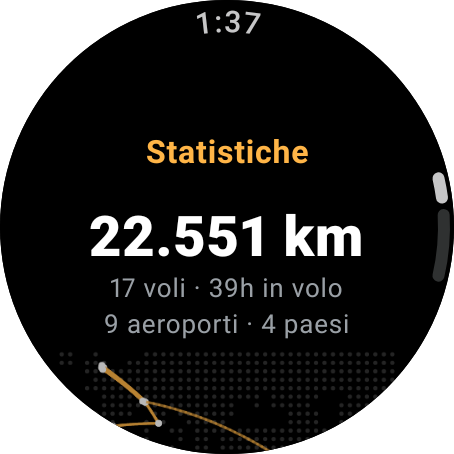
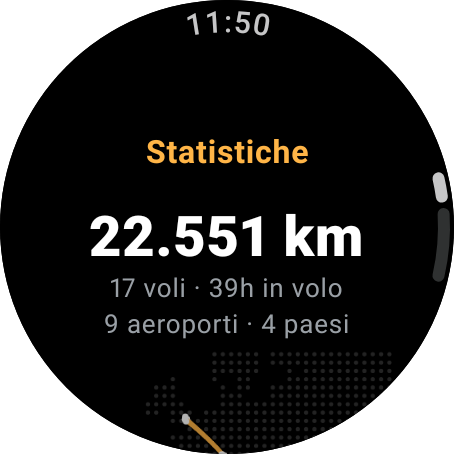
Mappa rotte: selettore Europa / Mondo
- core: riquadro geografico fisso (Bounds.EUROPE) per la mappa multi-rotta
- telefono: chip Europa/Mondo, rotte tagliate al bordo, contatore rotte fuori Europa
- orologio: tocco sulla mappa per passare da Europa a Mondo

Claude-Session: https://claude.ai/code/session_01QZdUxbXicnFAc6JdaxwKK2

diff --git a/kairos/mobile/src/main/java/digital/giacomello/kairos/mobile/ui/StatsScreen.kt b/kairos/mobile/src/main/java/digital/giacomello/kairos/mobile/ui/StatsScreen.kt
@@ -6,6 +6,7 @@ import androidx.compose.foundation.layout.Arrangement
 import androidx.compose.foundation.layout.Box
 import androidx.compose.foundation.layout.Column
 import androidx.compose.foundation.layout.Row
+import androidx.compose.foundation.layout.Spacer
 import androidx.compose.foundation.layout.fillMaxHeight
 import androidx.compose.foundation.layout.fillMaxSize
 import androidx.compose.foundation.layout.fillMaxWidth
@@ -53,8 +54,9 @@ fun StatsScreen(vm: MobileViewModel, onBack: () -> Unit) {
 /** Statistiche di viaggio: km, ore, puntualità e ritardi, classifiche. Filtro per anno. */
 @OptIn(ExperimentalMaterial3Api::class)
 @Composable
-fun StatsContent(flights: List<Flight>, onBack: () -> Unit, initialYear: Int? = null) {
+fun StatsContent(flights: List<Flight>, onBack: () -> Unit, initialYear: Int? = null, initialWorld: Boolean = false) {
     var year by remember { mutableStateOf(initialYear) }
+    var world by remember { mutableStateOf(initialWorld) }
     val years = remember(flights) { TravelStats.years(flights) }
     val s = remember(flights, year) { TravelStats.from(flights, year) }
 
@@ -101,12 +103,26 @@ fun StatsContent(flights: List<Flight>, onBack: () -> Unit, initialYear: Int? = 
                 Card(Modifier.fillMaxWidth(), shape = RoundedCornerShape(20.dp),
                     colors = CardDefaults.cardColors(containerColor = MaterialTheme.colorScheme.surfaceContainer)) {
                     Column {
-                        Row(Modifier.fillMaxWidth().padding(start = 16.dp, end = 16.dp, top = 14.dp), verticalAlignment = Alignment.CenterVertically) {
-                            Text("LE TUE ROTTE", style = MaterialTheme.typography.labelMedium, color = MaterialTheme.colorScheme.onSurfaceVariant, modifier = Modifier.weight(1f))
-                            Text("${flown.map { listOf(it.departure.iata, it.arrival.iata).sorted() }.toSet().size} rotte",
-                                style = MaterialTheme.typography.labelMedium, color = MaterialTheme.colorScheme.primary)
+                        val routeKeys = flown.map { listOf(it.departure.iata, it.arrival.iata).sorted() }.toSet()
+                        // Rotte con almeno uno scalo fuori dal riquadro Europa
+                        val outside = remember(flown) {
+                            flown.filter { f -> digital.giacomello.kairos.geo.LandMask.coords(f)?.let { (a, b) ->
+                                !digital.giacomello.kairos.geo.Bounds.EUROPE.contains(a) || !digital.giacomello.kairos.geo.Bounds.EUROPE.contains(b) } == true }
+                                .map { listOf(it.departure.iata, it.arrival.iata).sorted() }.toSet().size
                         }
-                        AllRoutesMap(flown, MaterialTheme.colorScheme.primary, Modifier.fillMaxWidth().height(260.dp).padding(8.dp))
+                        Row(Modifier.fillMaxWidth().padding(start = 16.dp, end = 12.dp, top = 12.dp), verticalAlignment = Alignment.CenterVertically) {
+                            Column(Modifier.weight(1f)) {
+                                Text("LE TUE ROTTE", style = MaterialTheme.typography.labelMedium, color = MaterialTheme.colorScheme.onSurfaceVariant)
+                                Text(
+                                    "${routeKeys.size} rotte" + if (!world && outside > 0) " · $outside fuori Europa" else "",
+                                    style = MaterialTheme.typography.labelMedium, color = MaterialTheme.colorScheme.primary,
+                                )
+                            }
+                            FilterChip(selected = !world, onClick = { world = false }, label = { Text("Europa") })
+                            Spacer(Modifier.width(6.dp))
+                            FilterChip(selected = world, onClick = { world = true }, label = { Text("Mondo") })
+                        }
+                        AllRoutesMap(flown, MaterialTheme.colorScheme.primary, Modifier.fillMaxWidth().height(260.dp).padding(8.dp), europe = !world)
                     }
                 }
             }

diff --git a/kairos/core/src/main/java/digital/giacomello/kairos/geo/RouteMap.kt b/kairos/core/src/main/java/digital/giacomello/kairos/geo/RouteMap.kt
@@ -36,7 +36,20 @@ data class RouteFrame(
 }
 
 /** Mappa con più rotte: terre a puntini e un percorso per rotta. */
-data class MultiFrame(val land: List<P>, val paths: List<List<P>>, val dotStep: Float)
+data class MultiFrame(val land: List<P>, val paths: List<List<P>>, val dotStep: Float) {
+    /** Un punto è visibile se cade dentro il riquadro. */
+    fun visible(p: P) = p.x in 0f..1f && p.y in 0f..1f
+}
+
+/** Riquadro geografico fisso. */
+data class Bounds(val minLat: Double, val maxLat: Double, val minLng: Double, val maxLng: Double) {
+    fun contains(p: LatLng) = p.lat in minLat..maxLat && p.lng in minLng..maxLng
+
+    companion object {
+        /** Europa geografica + Nord Africa mediterraneo, quanto basta per le rotte UE/UK. */
+        val EUROPE = Bounds(33.0, 63.0, -13.0, 33.0)
+    }
+}
 
 /**
  * Maschera terre emerse (Natural Earth 1:50m, pubblico dominio) su griglia di 0,25°,
@@ -97,7 +110,11 @@ class LandMask private constructor(private val bits: ByteArray) {
      * Mappa di più rotte insieme (es. "tutte le mie rotte"): inquadra tutti gli archi.
      * @return terre a puntini + un percorso per rotta, nello stesso ordine di [routes].
      */
-    fun frameMany(routes: List<Pair<LatLng, LatLng>>, aspect: Float, dotsAcross: Int = 80, padding: Double = 0.08): MultiFrame? {
+    fun frameMany(
+        routes: List<Pair<LatLng, LatLng>>, aspect: Float, dotsAcross: Int = 80, padding: Double = 0.08,
+        /** Riquadro fisso (es. Europa); null = inquadra tutte le rotte. */
+        bounds: Bounds? = null,
+    ): MultiFrame? {
         if (routes.isEmpty()) return null
         val arcs = routes.map { (a, b) -> greatCircle(a, b, 48) }
         // Longitudini srotolate per arco, poi allineate al centro del primo arco (gestisce l'antimeridiano)
@@ -111,14 +128,17 @@ class LandMask private constructor(private val bits: ByteArray) {
         val midLat = (allLats.min() + allLats.max()) / 2
         val kx = cos(midLat * PI / 180).coerceAtLeast(0.2)
 
-        var minX = allLngs.min() * kx; var maxX = allLngs.max() * kx
-        var minY = allLats.min(); var maxY = allLats.max()
-        var w = max(maxX - minX, (maxY - minY) * aspect).coerceAtLeast(14.0) * (1 + 2 * padding)
+        val kxB = bounds?.let { cos((it.minLat + it.maxLat) / 2 * PI / 180) }
+        val k = kxB ?: kx
+        var minX = (bounds?.minLng ?: allLngs.min()) * k; var maxX = (bounds?.maxLng ?: allLngs.max()) * k
+        var minY = bounds?.minLat ?: allLats.min(); var maxY = bounds?.maxLat ?: allLats.max()
+        val pad = if (bounds != null) 0.0 else padding
+        var w = max(maxX - minX, (maxY - minY) * aspect).coerceAtLeast(14.0) * (1 + 2 * pad)
         var h = w / aspect
-        if (h < (maxY - minY) * (1 + 2 * padding)) { h = (maxY - minY) * (1 + 2 * padding); w = h * aspect }
+        if (h < (maxY - minY) * (1 + 2 * pad)) { h = (maxY - minY) * (1 + 2 * pad); w = h * aspect }
         val cx = (minX + maxX) / 2; val cy = (minY + maxY) / 2
         minX = cx - w / 2; maxX = cx + w / 2; minY = cy - h / 2; maxY = cy + h / 2
-        fun proj(lat: Double, lng: Double) = P(((lng * kx - minX) / w).toFloat(), ((maxY - lat) / h).toFloat())
+        fun proj(lat: Double, lng: Double) = P(((lng * k - minX) / w).toFloat(), ((maxY - lat) / h).toFloat())
 
         val step = w / dotsAcross
         val land = ArrayList<P>()
@@ -126,7 +146,7 @@ class LandMask private constructor(private val bits: ByteArray) {
         while (y > minY) {
             var x = minX + step / 2
             while (x < maxX) {
-                val lng = x / kx
+                val lng = x / k
                 if (y in -85.0..85.0 && isLand(y, normLng(lng))) land += proj(y, lng)
                 x += step
             }

diff --git a/kairos/mobile/src/main/java/digital/giacomello/kairos/mobile/ui/Design.kt b/kairos/mobile/src/main/java/digital/giacomello/kairos/mobile/ui/Design.kt
@@ -23,6 +23,7 @@ import androidx.compose.runtime.Composable
 import androidx.compose.runtime.remember
 import androidx.compose.ui.Alignment
 import androidx.compose.ui.Modifier
+import androidx.compose.ui.draw.clipToBounds
 import androidx.compose.ui.geometry.CornerRadius
 import androidx.compose.ui.geometry.Offset
 import androidx.compose.ui.geometry.RoundRect
@@ -234,7 +235,7 @@ fun dpToPx(dp: Dp) = with(LocalDensity.current) { dp.toPx() }
  * aeroporti dimensionati per numero di passaggi, etichette sui più usati.
  */
 @Composable
-fun AllRoutesMap(flights: List<Flight>, color: Color, modifier: Modifier = Modifier, maxLabels: Int = 8) {
+fun AllRoutesMap(flights: List<Flight>, color: Color, modifier: Modifier = Modifier, maxLabels: Int = 8, europe: Boolean = false) {
     val ctx = LocalContext.current
     val measurer = rememberTextMeasurer()
     val labelStyle = TextStyle(color = Color.White, fontSize = 10.sp, fontWeight = FontWeight.Bold)
@@ -259,8 +260,11 @@ fun AllRoutesMap(flights: List<Flight>, color: Color, modifier: Modifier = Modif
 
     BoxWithConstraints(modifier) {
         val aspect = (constraints.maxWidth.toFloat() / constraints.maxHeight.coerceAtLeast(1)).coerceIn(0.5f, 4f)
-        val frame = remember(routes, aspect) { LandMask.get(ctx).frameMany(routes.map { it.coords }, aspect, 90, 0.1) }
-        Canvas(Modifier.fillMaxSize()) {
+        val frame = remember(routes, aspect, europe) {
+            LandMask.get(ctx).frameMany(routes.map { it.coords }, aspect, 90, 0.1,
+                bounds = if (europe) digital.giacomello.kairos.geo.Bounds.EUROPE else null)
+        }
+        Canvas(Modifier.fillMaxSize().clipToBounds()) {
             if (frame == null) return@Canvas
             val w = size.width; val h = size.height
             val dotR = (frame.dotStep * w * 0.28f).coerceIn(0.8f, 2.6f)
@@ -279,7 +283,8 @@ fun AllRoutesMap(flights: List<Flight>, color: Color, modifier: Modifier = Modif
                 val idx = routes.indexOf(ref.third)
                 val p = if (ref.second == 0) frame.paths[idx].first() else frame.paths[idx].last()
                 Triple(code, n, Offset(p.x * w, p.y * h))
-            }.sortedByDescending { it.second }
+            }.filter { (_, _, o) -> o.x in 0f..w && o.y in 0f..h } // in vista Europa gli scali lontani restano fuori
+                .sortedByDescending { it.second }
             placed.forEach { (_, n, o) ->
                 val r = (2.5f + 3.5f * n / maxA).dp.toPx()
                 drawCircle(Color.Black, r + 1.5.dp.toPx(), o)

diff --git a/kairos/wear/src/main/java/digital/giacomello/kairos/ui/screens/StatsScreen.kt b/kairos/wear/src/main/java/digital/giacomello/kairos/ui/screens/StatsScreen.kt
@@ -6,6 +6,9 @@ import androidx.compose.foundation.layout.Row
 import androidx.compose.foundation.layout.fillMaxWidth
 import androidx.compose.foundation.layout.height
 import androidx.compose.runtime.Composable
+import androidx.compose.runtime.setValue
+import androidx.compose.runtime.mutableStateOf
+import androidx.compose.foundation.clickable
 import androidx.compose.runtime.getValue
 import androidx.compose.runtime.remember
 import androidx.compose.ui.Alignment
@@ -36,7 +39,8 @@ fun StatsScreen(vm: FlightsViewModel) {
 
 /** Statistiche compatte per l'orologio: totali, puntualità, ritardi, top rotte. */
 @Composable
-fun StatsContent(flights: List<Flight>, initialItem: Int = 0) {
+fun StatsContent(flights: List<Flight>, initialItem: Int = 0, initialWorld: Boolean = false) {
+    var world by remember { mutableStateOf(initialWorld) }
     val s = remember(flights) { TravelStats.from(flights) }
     val listState = rememberScalingLazyListState(initialCenterItemIndex = initialItem)
 
@@ -52,7 +56,11 @@ fun StatsContent(flights: List<Flight>, initialItem: Int = 0) {
             }
             item {
                 val flown = remember(flights) { flights.filter { it.status.isFinished && it.status != digital.giacomello.kairos.model.FlightStatus.CANCELED } }
-                WearAllRoutesMap(flown, MaterialTheme.colorScheme.primary, Modifier.fillMaxWidth().height(110.dp))
+                // Tocca la mappa per passare da Europa a Mondo
+                Column(horizontalAlignment = Alignment.CenterHorizontally, modifier = Modifier.fillMaxWidth().clickable { world = !world }) {
+                    WearAllRoutesMap(flown, MaterialTheme.colorScheme.primary, Modifier.fillMaxWidth().height(110.dp), europe = !world)
+                    Text(if (world) "Mondo · tocca per Europa" else "Europa · tocca per Mondo", fontSize = 11.sp, color = MaterialTheme.colorScheme.onSurfaceVariant)
+                }
             }
             item { ListHeader { Text("Ritardi") } }
             item {

diff --git a/kairos/wear/src/main/java/digital/giacomello/kairos/ui/screens/Components.kt b/kairos/wear/src/main/java/digital/giacomello/kairos/ui/screens/Components.kt
@@ -9,6 +9,7 @@ import androidx.compose.foundation.layout.padding
 import androidx.compose.foundation.shape.RoundedCornerShape
 import androidx.compose.runtime.Composable
 import androidx.compose.ui.Modifier
+import androidx.compose.ui.draw.clipToBounds
 import androidx.compose.ui.geometry.Offset
 import androidx.compose.ui.graphics.Color
 import androidx.compose.ui.graphics.PathEffect
@@ -124,7 +125,7 @@ fun WearRouteMap(f: Flight, progress: Float, color: Color, modifier: Modifier = 
 
 /** Mini mappa di tutte le rotte per il polso. */
 @Composable
-fun WearAllRoutesMap(flights: List<Flight>, color: Color, modifier: Modifier = Modifier) {
+fun WearAllRoutesMap(flights: List<Flight>, color: Color, modifier: Modifier = Modifier, europe: Boolean = false) {
     val ctx = LocalContext.current
     val routes = remember(flights) {
         flights.mapNotNull { f -> LandMask.coords(f)?.let { listOf(f.departure.iata, f.arrival.iata).sorted() to it } }
@@ -132,8 +133,11 @@ fun WearAllRoutesMap(flights: List<Flight>, color: Color, modifier: Modifier = M
     }
     BoxWithConstraints(modifier) {
         val aspect = (constraints.maxWidth.toFloat() / constraints.maxHeight.coerceAtLeast(1)).coerceIn(0.5f, 4f)
-        val frame = remember(routes, aspect) { LandMask.get(ctx).frameMany(routes.map { it.first }, aspect, 40, 0.1) }
-        Canvas(Modifier.fillMaxSize()) {
+        val frame = remember(routes, aspect, europe) {
+            LandMask.get(ctx).frameMany(routes.map { it.first }, aspect, 40, 0.1,
+                bounds = if (europe) digital.giacomello.kairos.geo.Bounds.EUROPE else null)
+        }
+        Canvas(Modifier.fillMaxSize().clipToBounds()) {
             if (frame == null) return@Canvas
             val w = size.width; val h = size.height
             frame.land.forEach { drawCircle(Color.White.copy(alpha = 0.2f), 1.3.dp.toPx(), Offset(it.x * w, it.y * h)) }

diff --git a/kairos/mobile/src/test/java/digital/giacomello/kairos/mobile/PhoneScreenshots.kt b/kairos/mobile/src/test/java/digital/giacomello/kairos/mobile/PhoneScreenshots.kt
@@ -55,6 +55,8 @@ class PhoneScreenshots {
 
     @Test fun stats() = shot("5-statistiche") { StatsContent(SampleData.flights, onBack = {}) }
 
+    @Test fun statsWorld() = shot("5b-statistiche-mondo") { StatsContent(SampleData.flights, onBack = {}, initialWorld = true) }
+
     @Test fun statsYear() = shot("6-statistiche-2026") { StatsContent(SampleData.flights, onBack = {}, initialYear = 2026) }
 
     @Test fun settings() = shot("4-impostazioni") {

diff --git a/kairos/wear/src/test/java/digital/giacomello/kairos/wear/WatchScreenshots.kt b/kairos/wear/src/test/java/digital/giacomello/kairos/wear/WatchScreenshots.kt
@@ -67,6 +67,8 @@ class WatchScreenshots {
 
     @Test fun statsMap() = shot("4a-mappa-rotte") { StatsContent(SampleData.flights, initialItem = 2) }
 
+    @Test fun statsMapWorld() = shot("4a2-mappa-mondo") { StatsContent(SampleData.flights, initialItem = 2, initialWorld = true) }
+
     @Test fun statsDelays() = shot("4b-ritardi") { StatsContent(SampleData.flights, initialItem = 4) }
 
     @Test fun inFlight() = shot("3-in-volo") {
